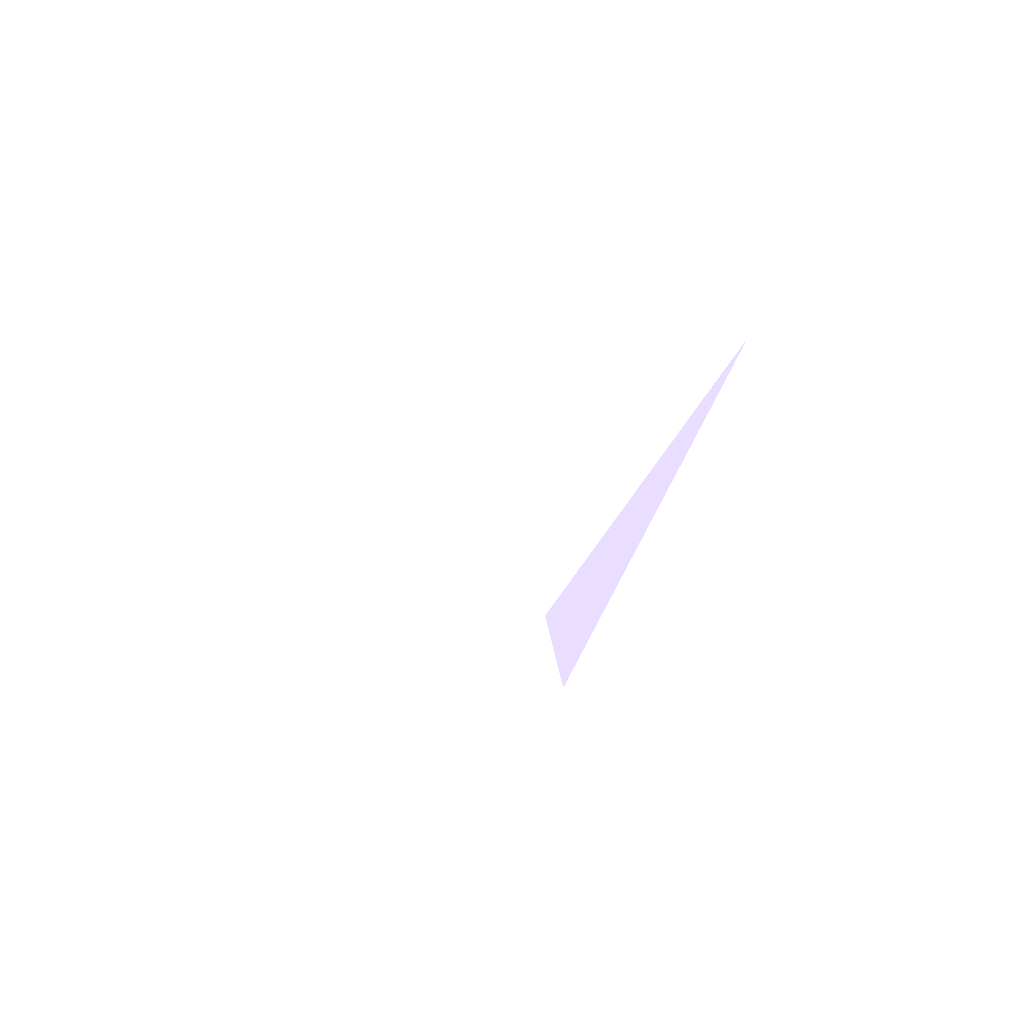
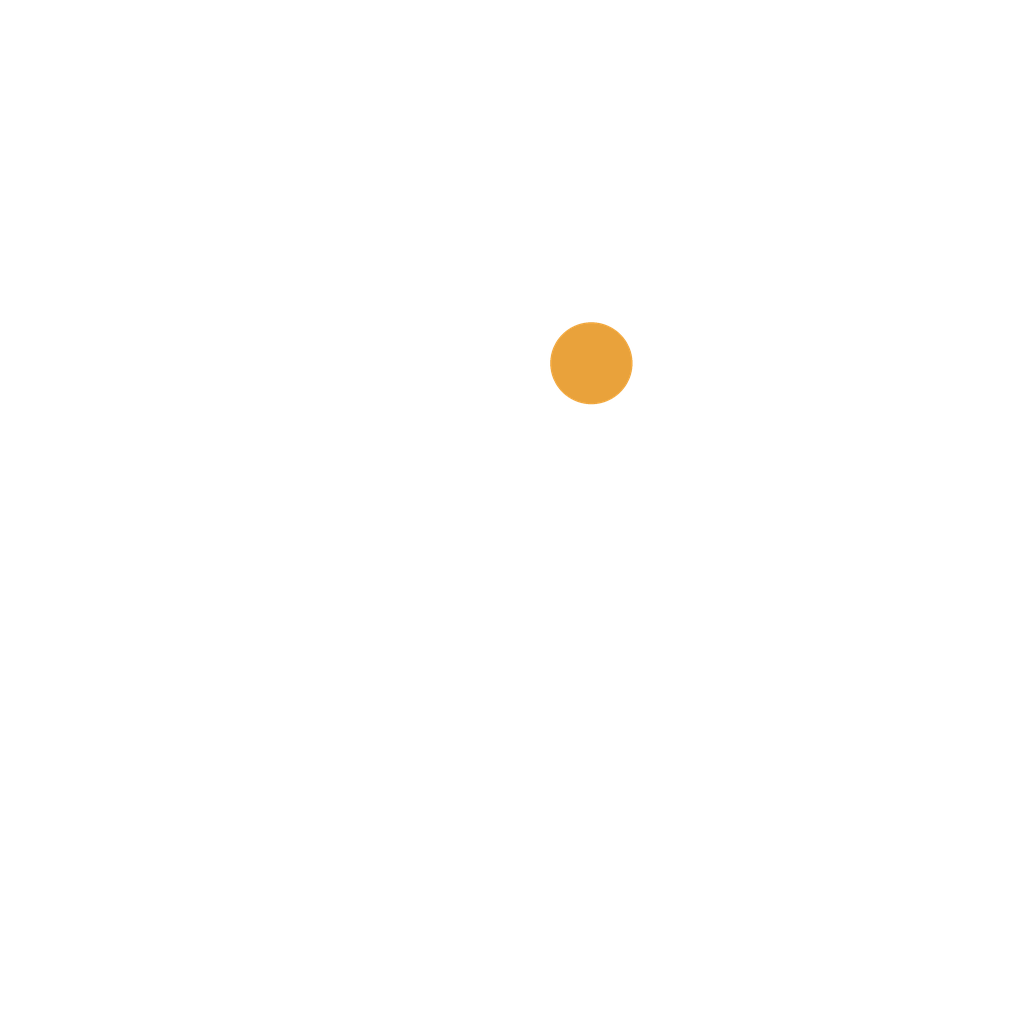
App 1.4.1 (vc13): new brand look + themed update pop-up
- Palette = the website's brand: ink on warm paper, forest green actions, one marigold accent; warm neutrals
  instead of lavender, neutral card shadows, own red tint for errors, bold buttons in ink; dark twin
- New original icon / in-app logo (replaces the paper plane): lowercase "j" path with a marigold waypoint dot,
  generated by mobile/assets/make-icon.py (all launcher sizes)
- Update pop-up was the stock Android one: dialog() before the themed host mounted fell back to Alert.alert;
  it now waits for the host. Download notice is a themed dialog instead of a toast.

Changed region(s): [[0.5312, 0.3438, 0.7188, 0.6562], [0.5312, 0.3125, 0.625, 0.4062]]

diff --git a/mobile/src/ui.tsx b/mobile/src/ui.tsx
@@ -3,18 +3,19 @@ import { ActivityIndicator, Animated, Easing, Pressable, RefreshControl, ScrollV
 import { useSafeAreaInsets } from 'react-native-safe-area-context'
 import { router } from 'expo-router'
 
-// Vivid palette: violet primary, pink pop, emerald for good matches, cyan for done; plus a dark twin.
+// JobPilot palette (same brand as the website): ink on warm paper, forest green for action and progress, one warm
+// marigold accent used sparingly (waypoints, highlights). Neutrals are warm, never lavender. Plus a dark twin.
 const light = {
-  bg: '#f6f3ff', card: '#ffffff', ink: '#1e1b4b', muted: '#6b6894', line: '#e6e1fa',
-  accent: '#7c3aed', accentSoft: '#ede9fe', pop: '#ec4899', popSoft: '#fce7f3',
-  good: '#059669', goodSoft: '#d1fae5', info: '#0891b2', infoSoft: '#cffafe',
-  danger: '#e11d48', warn: '#c2410c', warnSoft: '#ffedd5',
+  bg: '#F6F4EF', card: '#FFFFFF', ink: '#16181D', muted: '#6B6A64', line: '#E4E0D6',
+  accent: '#1F6F5C', accentSoft: '#E1EFE9', pop: '#A8591A', popSoft: '#FBEEDC',
+  good: '#2F7D4F', goodSoft: '#E0F0E5', info: '#2B5F9E', infoSoft: '#E3ECF6',
+  danger: '#B42318', dangerSoft: '#FBE7E4', warn: '#A15C0B', warnSoft: '#FBF0DC',
 }
 const dark: typeof light = {
-  bg: '#0e0a1f', card: '#1a1433', ink: '#f3f0ff', muted: '#a49fc7', line: '#2e2654',
-  accent: '#a78bfa', accentSoft: '#2b1f55', pop: '#f472b6', popSoft: '#45193a',
-  good: '#34d399', goodSoft: '#0f3a2e', info: '#22d3ee', infoSoft: '#0c3540',
-  danger: '#fb7185', warn: '#fb923c', warnSoft: '#43230f',
+  bg: '#101311', card: '#191D1A', ink: '#ECEAE4', muted: '#9C9A92', line: '#2A2F2B',
+  accent: '#5DBB9C', accentSoft: '#183028', pop: '#E9A23B', popSoft: '#3A2A14',
+  good: '#6CC38E', goodSoft: '#163022', info: '#7AA9E0', infoSoft: '#16263A',
+  danger: '#F2877C', dangerSoft: '#3A1A17', warn: '#E9A23B', warnSoft: '#36280F',
 }
 export type Colors = typeof light
 export const useColors = () => (useColorScheme() === 'dark' ? dark : light)
@@ -65,14 +66,14 @@ export function Label({ children }: { children: ReactNode }) {
 export function Card({ children, tone, style }: { children: ReactNode; tone?: 'accent' | 'warn' | 'danger'; style?: ViewStyle }) {
   const c = useColors()
   const stripe = tone === 'accent' ? c.accent : tone === 'warn' ? c.warn : tone === 'danger' ? c.danger : null
-  const bg = tone === 'warn' ? c.warnSoft : tone === 'accent' ? c.accentSoft : tone === 'danger' ? c.popSoft : c.card
-  return <View style={[s.card, { backgroundColor: bg, borderColor: c.line, shadowColor: c.accent }, stripe && { borderLeftWidth: 5, borderLeftColor: stripe }, style]}>{children}</View>
+  const bg = tone === 'warn' ? c.warnSoft : tone === 'accent' ? c.accentSoft : tone === 'danger' ? c.dangerSoft : c.card
+  return <View style={[s.card, { backgroundColor: bg, borderColor: c.line, shadowColor: '#000000' }, stripe && { borderLeftWidth: 5, borderLeftColor: stripe }, style]}>{children}</View>
 }
 
 export function Btn({ title, onPress, kind = 'solid', disabled, busy, small }: { title: string; onPress: () => void; kind?: 'solid' | 'ghost' | 'danger' | 'accent'; disabled?: boolean; busy?: boolean; small?: boolean }) {
   const c = useColors()
-  const bg = kind === 'solid' ? c.accent : kind === 'accent' ? c.pop : 'transparent'
-  const fg = kind === 'solid' || kind === 'accent' ? '#ffffff' : kind === 'danger' ? c.danger : c.accent
+  const bg = kind === 'solid' ? c.accent : kind === 'accent' ? c.ink : 'transparent'
+  const fg = kind === 'solid' ? '#ffffff' : kind === 'accent' ? c.bg : kind === 'danger' ? c.danger : c.accent
   const off = disabled || busy
   return (
     <Pressable accessibilityRole="button" accessibilityState={{ disabled: !!off }} disabled={off} onPress={onPress}
@@ -109,7 +110,7 @@ export function Chip({ label, on, onPress, disabled }: { label: string; on: bool
 
 export function Tag({ label, tone }: { label: string; tone?: 'accent' | 'warn' | 'danger' | 'ink' }) {
   const c = useColors()
-  const [bg, fg] = tone === 'accent' ? [c.accentSoft, c.accent] : tone === 'warn' ? [c.warnSoft, c.warn] : tone === 'danger' ? [c.popSoft, c.danger] : tone === 'ink' ? [c.infoSoft, c.info] : [c.accentSoft, c.accent]
+  const [bg, fg] = tone === 'accent' ? [c.accentSoft, c.accent] : tone === 'warn' ? [c.warnSoft, c.warn] : tone === 'danger' ? [c.dangerSoft, c.danger] : tone === 'ink' ? [c.infoSoft, c.info] : [c.accentSoft, c.accent]
   return <Text style={[s.tag, { backgroundColor: bg, color: fg }]}>{label}</Text>
 }
 
@@ -149,7 +150,7 @@ export function Loading() {
   return <View style={{ flex: 1, alignItems: 'center', justifyContent: 'center', backgroundColor: c.bg }}><AnimatedLogo size={84} /></View>
 }
 
-/** The paper-plane logo: springs in, then floats with a soft pulsing glow (built-in Animated, native driver). */
+/** The JobPilot mark (assets/icon.png): springs in, then floats with a soft pulsing glow (built-in Animated, native driver). */
 export function AnimatedLogo({ size = 96 }: { size?: number }) {
   const c = useColors()
   const enter = useRef(new Animated.Value(0)).current
@@ -190,7 +191,7 @@ const s = StyleSheet.create({
   kicker: { fontSize: 11, fontWeight: '800', letterSpacing: 1.6, textTransform: 'uppercase', marginBottom: 4 },
   title: { fontSize: 32, fontWeight: '800', letterSpacing: -0.8, lineHeight: 36 },
   label: { fontSize: 11, fontWeight: '700', letterSpacing: 1, textTransform: 'uppercase' },
-  card: { borderWidth: 1, borderRadius: 18, padding: space, gap: 10, shadowOpacity: 0.08, shadowRadius: 12, shadowOffset: { width: 0, height: 4 }, elevation: 2 },
+  card: { borderWidth: 1, borderRadius: 16, padding: space, gap: 10, shadowOpacity: 0.05, shadowRadius: 8, shadowOffset: { width: 0, height: 2 }, elevation: 1 },
   btn: { flexDirection: 'row', gap: 8, alignItems: 'center', justifyContent: 'center', borderWidth: 1, borderRadius: 14, paddingVertical: 14, paddingHorizontal: 18 },
   btnSmall: { paddingVertical: 8, paddingHorizontal: 12 },
   input: { borderWidth: 1.5, borderRadius: 12, paddingHorizontal: 12, paddingVertical: 11, fontSize: 15 },

diff --git a/mobile/src/dialog.tsx b/mobile/src/dialog.tsx
@@ -1,24 +1,30 @@
 // App-styled replacement for Alert.alert (same arguments), so confirmations look like JobPilot, not stock Android.
-// <DialogHost /> is mounted once in app/_layout.tsx; dialog() falls back to Alert.alert before it mounts.
+// <DialogHost /> is mounted once in app/_layout.tsx; a dialog() called before it mounts (the update check on a slow
+// start) waits for it instead of falling back to the stock Android pop-up.
 import { useEffect, useRef, useState } from 'react'
-import { Alert, Animated, Modal, Pressable, Text, View } from 'react-native'
+import { Animated, Modal, Pressable, Text, View } from 'react-native'
 import { Btn, useColors } from './ui'
 
 export type DialogButton = { text: string; style?: 'default' | 'cancel' | 'destructive'; onPress?: () => void }
 type Dialog = { title: string; message?: string; buttons: DialogButton[] }
 
 let show: ((d: Dialog) => void) | null = null
+let pending: Dialog | null = null
 
 export function dialog(title: string, message?: string, buttons: DialogButton[] = [{ text: 'OK' }]) {
   if (show) show({ title, message, buttons })
-  else Alert.alert(title, message, buttons)
+  else pending = { title, message, buttons }
 }
 
 export function DialogHost() {
   const c = useColors()
   const [d, setD] = useState<Dialog | null>(null)
   const pop = useRef(new Animated.Value(0)).current
-  useEffect(() => { show = setD; return () => { show = null } }, [])
+  useEffect(() => {
+    show = setD
+    if (pending) { setD(pending); pending = null }
+    return () => { show = null }
+  }, [])
   useEffect(() => {
     if (!d) return
     pop.setValue(0)
@@ -29,7 +35,7 @@ export function DialogHost() {
   const cancel = d?.buttons.find(b => b.style === 'cancel')
   return (
     <Modal transparent visible={!!d} animationType="fade" statusBarTranslucent onRequestClose={() => press(cancel)}>
-      <Pressable onPress={() => cancel && press(cancel)} style={{ flex: 1, backgroundColor: 'rgba(10,8,20,0.6)', justifyContent: 'center', padding: 24 }}>
+      <Pressable onPress={() => cancel && press(cancel)} style={{ flex: 1, backgroundColor: 'rgba(16,19,17,0.55)', justifyContent: 'center', padding: 24 }}>
         {d && (
           <Animated.View style={{ transform: [{ scale: pop.interpolate({ inputRange: [0, 1], outputRange: [0.92, 1] }) }], opacity: pop }}>
             <Pressable style={{ backgroundColor: c.card, borderRadius: 20, padding: 20, gap: 10, borderWidth: 1, borderColor: c.line }}>

diff --git a/mobile/src/update.ts b/mobile/src/update.ts
@@ -3,7 +3,7 @@
 // Updates install over the old app only if signed with the same key (this PC's release build config).
 import { useEffect, useRef } from 'react'
 import { dialog } from './dialog'
-import { AppState, Platform, ToastAndroid } from 'react-native'
+import { AppState, Platform } from 'react-native'
 import Constants from 'expo-constants'
 import * as FileSystem from 'expo-file-system/legacy'
 import * as IntentLauncher from 'expo-intent-launcher'
@@ -24,7 +24,7 @@ export function newer(a: string, b: string) {
 type Release = { tag_name: string; body?: string; assets: { name: string; browser_download_url: string }[] }
 
 async function install(url: string, tag: string) {
-  ToastAndroid.show(`Downloading JobPilot ${tag}…`, ToastAndroid.LONG)
+  dialog(`Downloading JobPilot ${tag}…`, 'Keep the app open. Android asks you to confirm the install when the download finishes.')
   const target = `${FileSystem.cacheDirectory}jobpilot-${tag}.apk`
   await FileSystem.deleteAsync(target, { idempotent: true })
   const { uri, status } = await FileSystem.downloadAsync(url, target)

diff --git a/mobile/app/interview/[id].tsx b/mobile/app/interview/[id].tsx
@@ -172,11 +172,11 @@ function LiveInterview({ id, onFinished }: { id: string; onFinished: () => void 
     </Screen>
   )
   return (
-    <View style={{ flex: 1, backgroundColor: '#0f0d17', paddingTop: insets.top, paddingBottom: insets.bottom }}>
+    <View style={{ flex: 1, backgroundColor: '#101311', paddingTop: insets.top, paddingBottom: insets.bottom }}>
       <Stack.Screen options={{ headerShown: false }} />
       <WebView ref={web} source={{ uri: `${DEFAULT_SERVER}/live/${id}#t=${encodeURIComponent(currentToken() ?? '')}` }}
         onMessage={e => onMessage(e.nativeEvent.data)} mediaPlaybackRequiresUserAction={false} allowsInlineMediaPlayback
-        javaScriptEnabled domStorageEnabled style={{ flex: 1, backgroundColor: '#0f0d17' }} />
+        javaScriptEnabled domStorageEnabled style={{ flex: 1, backgroundColor: '#101311' }} />
     </View>
   )
 }

diff --git a/mobile/app.config.js b/mobile/app.config.js
@@ -9,13 +9,13 @@ const allowHttp = config => withAndroidManifest(config, c => {
 module.exports = {
   name: 'JobPilot',
   slug: 'jobpilot',
-  version: '1.4.0',
+  version: '1.4.1',
   icon: './assets/icon.png',
   orientation: 'portrait',
   scheme: 'jobpilot',
   userInterfaceStyle: 'automatic',
   android: {
-    package: 'com.jobpilot.app', versionCode: 12,
+    package: 'com.jobpilot.app', versionCode: 13,
     permissions: ['CAMERA', 'RECORD_AUDIO', 'MODIFY_AUDIO_SETTINGS', 'POST_NOTIFICATIONS', 'REQUEST_INSTALL_PACKAGES'], // spoken live interview: camera, mic, 'recording ready'
     blockedPermissions: ['android.permission.SYSTEM_ALERT_WINDOW'],
     adaptiveIcon: { foregroundImage: './assets/adaptive-fg.png', backgroundImage: './assets/adaptive-bg.png' },

diff --git a/mobile/app/_layout.tsx b/mobile/app/_layout.tsx
@@ -54,6 +54,7 @@ export default function Root() {
               <Stack.Screen name="job/[id]" options={{ title: 'Job' }} />
               <Stack.Screen name="tailor/[id]" options={{ title: 'Tailor' }} />
               <Stack.Screen name="application/[id]" options={{ title: 'Application' }} />
+              <Stack.Screen name="apply/[id]" options={{ title: 'Apply' }} />
               <Stack.Screen name="add-job" options={{ title: 'Add a job', presentation: 'modal' }} />
               <Stack.Screen name="interview/index" options={{ title: 'Interview practice' }} />
               <Stack.Screen name="interview/[id]" options={{ title: 'Practice' }} />

diff --git a/mobile/assets/make-icon.py b/mobile/assets/make-icon.py
@@ -1,0 +1,76 @@
+"""JobPilot mark: a forest-green tile with a white lowercase "j" path whose dot is a marigold waypoint
+(your path, ending at the destination). Original artwork; regenerate all launcher sizes with:
+    python assets/make-icon.py      (from mobile/)
+"""
+from PIL import Image, ImageDraw
+
+GREEN_TOP, GREEN_BOTTOM = (36, 128, 106), (24, 92, 76)   # #24806A -> #185C4C, around brand #1F6F5C
+MARIGOLD = (233, 162, 59)                                # #E9A23B
+WHITE = (255, 255, 255)
+S = 4  # supersample
+
+
+def tile(size, radius_frac=0.225, circle=False):
+    n = size * S
+    g = Image.new('RGB', (64, 64))
+    px = g.load()
+    for y in range(64):
+        for x in range(64):
+            t = (x + y) / 126  # diagonal: lighter top-left
+            px[x, y] = tuple(int(a + (b - a) * t) for a, b in zip(GREEN_TOP, GREEN_BOTTOM))
+    grad = g.resize((n, n), Image.BICUBIC)
+    mask = Image.new('L', (n, n), 0)
+    d = ImageDraw.Draw(mask)
+    if circle: d.ellipse((0, 0, n - 1, n - 1), fill=255)
+    else: d.rounded_rectangle((0, 0, n - 1, n - 1), radius=int(n * radius_frac), fill=255)
+    out = Image.new('RGBA', (n, n), (0, 0, 0, 0))
+    out.paste(grad, (0, 0), mask)
+    return out
+
+
+def mark(img, scale=1.0):
+    """Draws the j on img (already supersampled), designed on a 1024 grid, scaled about the centre.
+    The stroke is a round brush stamped along the path, so joins and ends are clean at every size."""
+    import math
+    n = img.size[0]
+    k = n / 1024 * scale
+    off = n / 2 - 512 * k
+    P = lambda x, y: (off + (x + 40) * k, off + (y + 10) * k)  # centres the glyph's optical box
+    w = 96 * k
+    d = ImageDraw.Draw(img)
+    stem_x, top = 600, 400
+    r = 135
+    cx, cy = stem_x - r, 640
+    path = [(cx - r, cy - 45 + t) for t in range(0, 46)]                                         # hook tip, down
+    path += [(cx + r * math.cos(math.radians(a)), cy + r * math.sin(math.radians(a))) for a in range(180, -1, -1)]  # round the bottom
+    path += [(stem_x, cy - t) for t in range(0, cy - top + 1)]                                     # up the stem
+    for (x, y) in path:
+        a, b = P(x, y)
+        d.ellipse((a - w / 2, b - w / 2, a + w / 2, b + w / 2), fill=WHITE)
+    a, b = P(stem_x, 262)   # the waypoint, a clear gap above the stem
+    rr = 66 * k
+    d.ellipse((a - rr, b - rr, a + rr, b + rr), fill=MARIGOLD)
+    return img
+
+
+def down(img, size):
+    return img.resize((size, size), Image.LANCZOS)
+
+
+if __name__ == '__main__':
+    import os
+    here = os.path.dirname(os.path.abspath(__file__))
+    res = os.path.join(here, '..', 'android', 'app', 'src', 'main', 'res')
+
+    down(mark(tile(1024)), 1024).save(os.path.join(here, 'icon.png'))
+    fg = Image.new('RGBA', (1024 * S, 1024 * S), (0, 0, 0, 0))
+    down(mark(fg, scale=0.62), 1024).save(os.path.join(here, 'adaptive-fg.png'))  # inside the 66% safe zone
+    down(tile(1024, radius_frac=0), 1024).save(os.path.join(here, 'adaptive-bg.png'))
+
+    for folder, legacy, layer in [('mdpi', 48, 108), ('hdpi', 72, 162), ('xhdpi', 96, 216), ('xxhdpi', 144, 324), ('xxxhdpi', 192, 432)]:
+        d = os.path.join(res, 'mipmap-' + folder)
+        down(mark(tile(legacy)), legacy).save(os.path.join(d, 'ic_launcher.webp'), quality=95)
+        down(mark(tile(legacy, circle=True), scale=0.86), legacy).save(os.path.join(d, 'ic_launcher_round.webp'), quality=95)
+        down(mark(Image.new('RGBA', (layer * S, layer * S), (0, 0, 0, 0)), scale=0.62), layer).save(os.path.join(d, 'ic_launcher_foreground.webp'), quality=95)
+        down(tile(layer, radius_frac=0), layer).save(os.path.join(d, 'ic_launcher_background.webp'), quality=95)
+    print('icons written')
